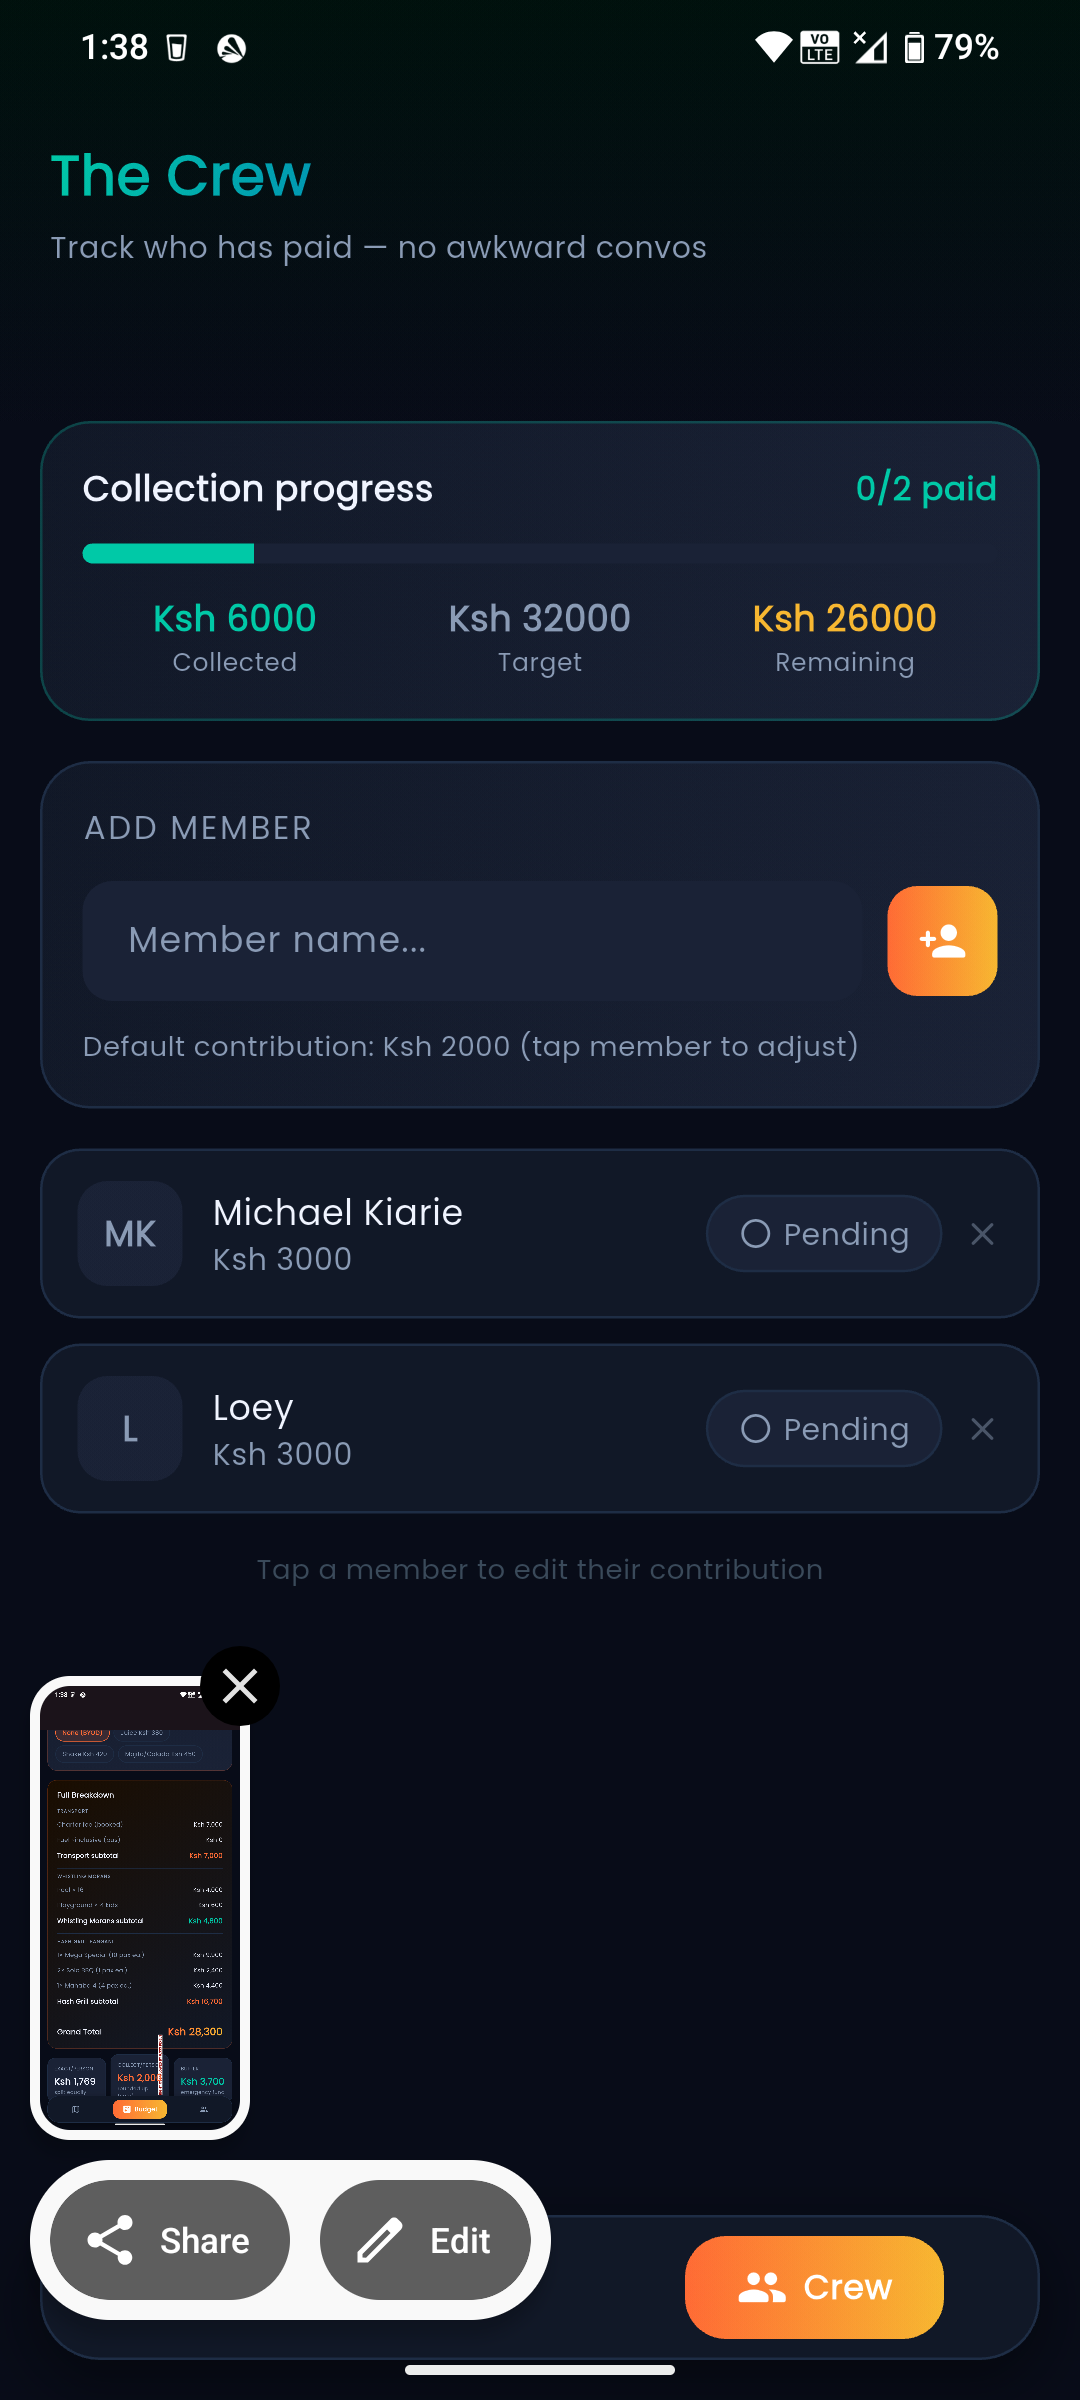
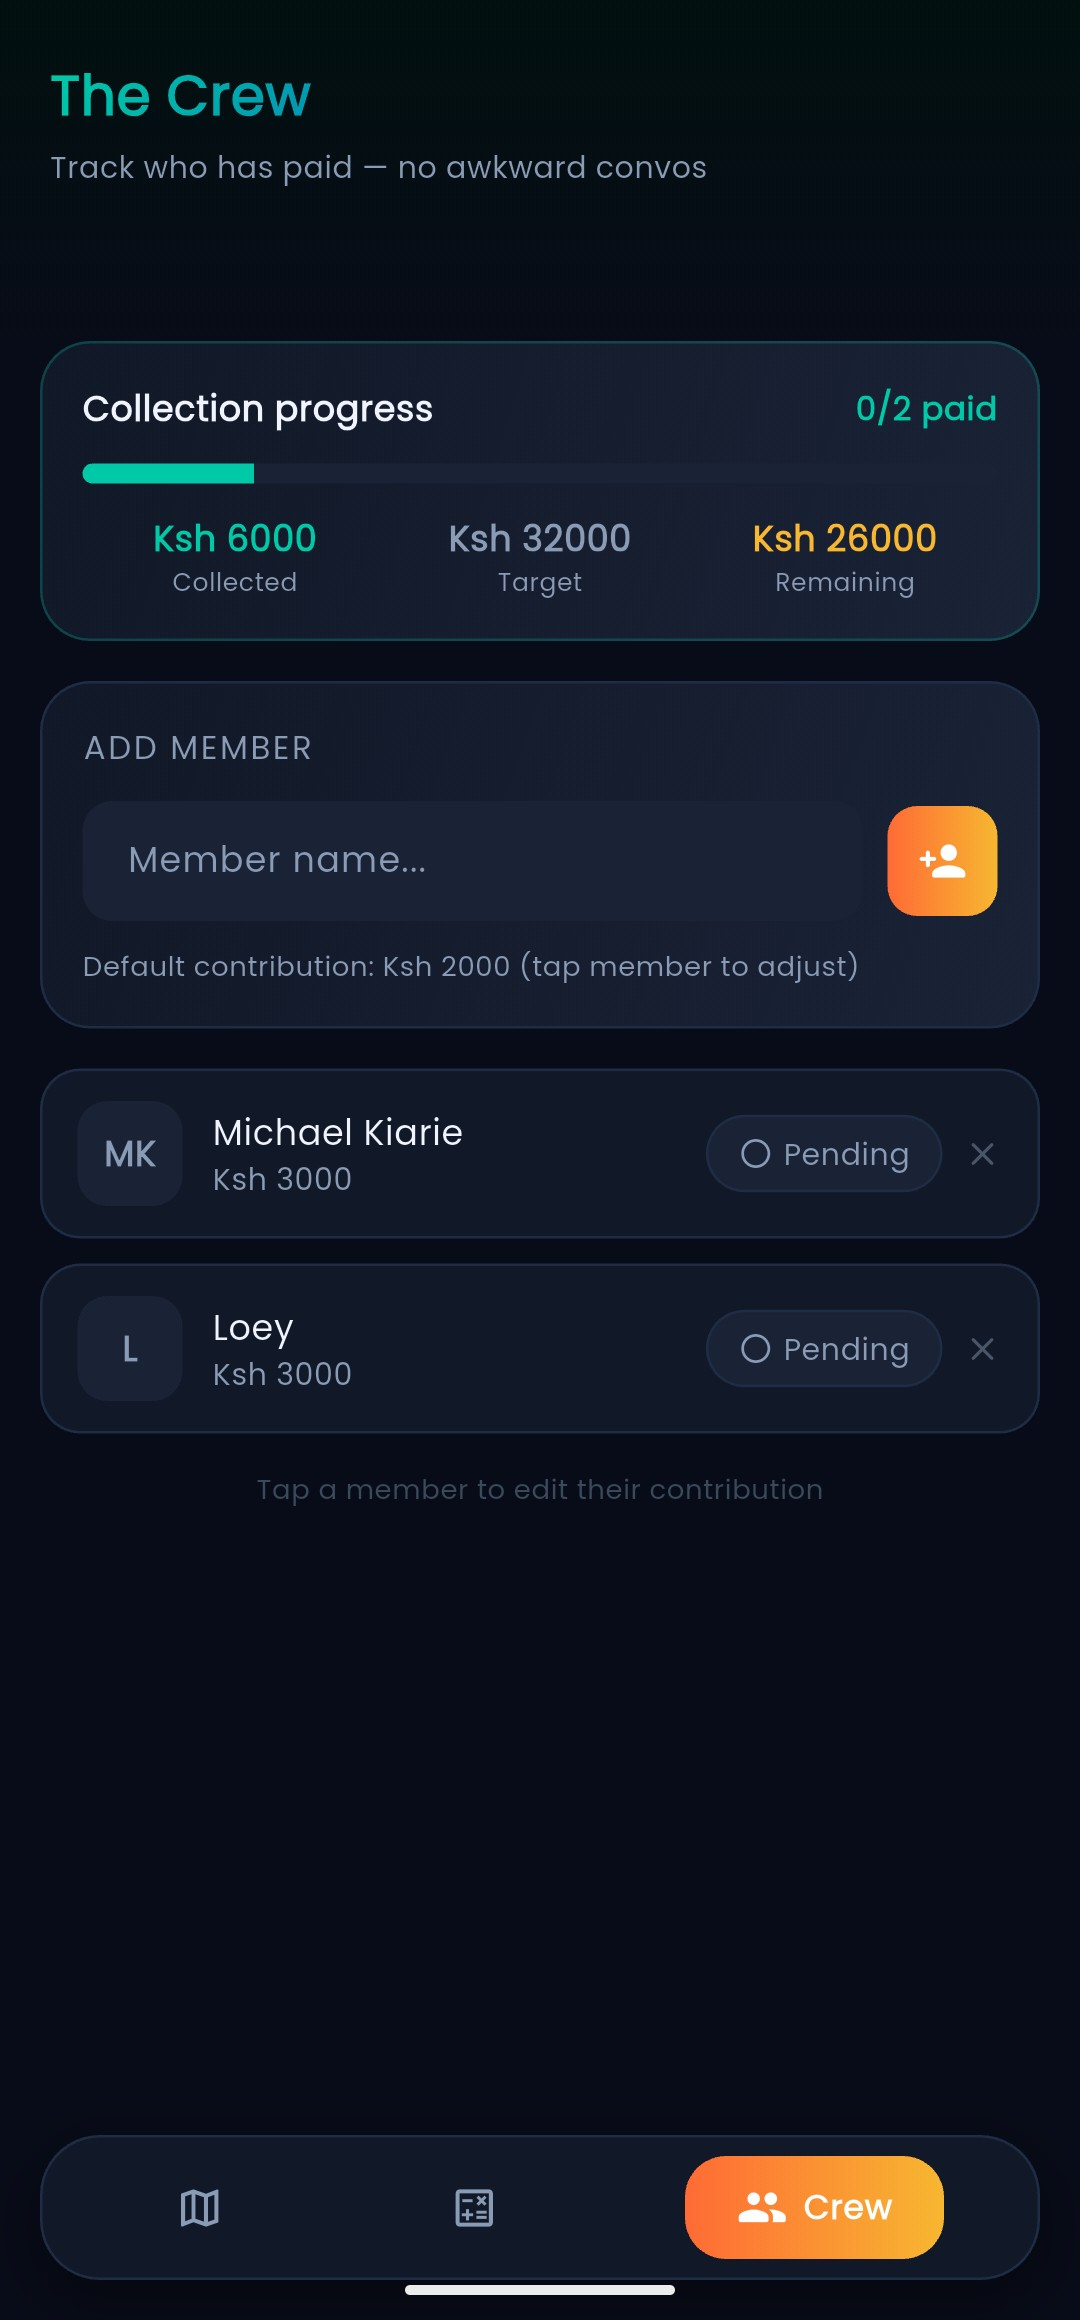
add Canaaneast Group site and mini builds section; update app details and links

diff --git a/src/data/apps.js b/src/data/apps.js
@@ -8,6 +8,8 @@
  * NOTE: the copy, links and captions here are a starting point — adjust them
  * as each build ships.
  */
+import { socials } from './profile'
+
 const screenshotUrls = import.meta.glob('../assets/images/*.{png,jpg,jpeg,webp}', {
   eager: true,
   query: '?url',
@@ -28,6 +30,12 @@ function screenshot(fileName, caption) {
 
 /** Drops any screenshot whose file is missing so the layout never breaks. */
 const shots = (...entries) => entries.filter(Boolean)
+
+/** Builds a repo URL from the GitHub profile in `profile.js`, so the username lives in one place. */
+const GITHUB_PROFILE =
+  socials.find((social) => social.icon === 'github')?.url ?? 'https://github.com'
+
+const repoUrl = (repo) => `${GITHUB_PROFILE.replace(/\/$/, '')}/${repo}`
 
 export const apps = [
   {
@@ -92,19 +100,53 @@ export const apps = [
     links: { demo: '/', repo: 'https://github.com/michael-hotani/my-portfolio' },
   },
   {
-    id: 'api-toolkit',
-    name: 'API Toolkit',
-    tagline: 'A small Laravel starter for JSON APIs.',
+    id: 'canaaneast-group',
+    name: 'Canaaneast Group',
+    tagline: 'Breaking boundaries — the corporate home of a multi-sector investment group.',
     description:
-      'An opinionated Laravel skeleton with consistent JSON responses, request validation, token auth and a ready-made Docker setup the boilerplate I stopped rewriting for every new service.',
-    platform: 'Backend',
-    status: 'In progress',
+      'A corporate website for Canaaneast Group, a progressive company with diverse interests across multiple sectors. The site presents their investment portfolio and sector expertise, and carries a brand promise built on world-class benchmarks and top-notch quality.',
+    platform: 'Web',
+    status: 'Live',
     year: '2025',
-    tags: ['Laravel', 'PHP', 'Docker', 'REST'],
-    icon: 'terminal',
+    tags: ['Web', 'Corporate site', 'Responsive', 'SEO'],
+    icon: 'layers',
     screenshots: [],
-    image: '/images/apps/api-toolkit.png',
-    links: { demo: null, repo: null },
+    image: '/images/apps/canaangroupco.png',
+    links: { demo: 'https://canaangroupco.com/', repo: null },
+  },
+]
+
+/**
+ * Weekend-sized frontend builds — the small challenges I use to keep the
+ * fundamentals sharp.
+ *
+ * NOTE: these repositories are private on GitHub. Make them public, or set
+ * `repo: null`, so visitors are not sent to a 404.
+ */
+export const miniBuilds = [
+  {
+    id: 'advice-generator',
+    name: 'Advice Generator',
+    blurb: 'Fetches a random piece of advice from an API and handles the loading and error states.',
+    date: 'Sep 2023',
+    tags: ['JavaScript', 'REST API', 'CSS'],
+    repo: repoUrl('advice-generator'),
+  },
+  {
+    id: 'calculator',
+    name: 'Calculator',
+    blurb: 'A calculator with chained operations, keyboard input and a switchable colour theme.',
+    date: 'Aug 2023',
+    tags: ['JavaScript', 'CSS Grid'],
+    repo: repoUrl('calculator'),
+  },
+  {
+    id: 'age-calculator-app',
+    name: 'Age Calculator',
+    blurb: 'Validates a date of birth, then counts the exact years, months and days from it.',
+    date: 'Aug 2023',
+    tags: ['JavaScript', 'Form validation'],
+    repo: repoUrl('age-calculator-app'),
   },
 ]
 

diff --git a/src/__tests__/data.spec.js b/src/__tests__/data.spec.js
@@ -4,7 +4,7 @@ import { profile, navLinks, socials, stats } from '../data/profile'
 import { skillGroups, techMarquee } from '../data/skills'
 import { experience, education } from '../data/experience'
 import { projects, projectCategories, featuredProjects } from '../data/projects'
-import { apps, showcasedApps, otherApps } from '../data/apps'
+import { apps, showcasedApps, otherApps, miniBuilds } from '../data/apps'
 
 describe('profile data', () => {
   it('exposes the core contact details', () => {
@@ -107,5 +107,43 @@ describe('apps data', () => {
   it('splits apps into showcased and card variants without losing any', () => {
     expect(showcasedApps.length + otherApps.length).toBe(apps.length)
     expect(otherApps.every((app) => !app.screenshots?.length)).toBe(true)
+  })
+
+  it('links the Canaaneast Group site', () => {
+    const canaan = apps.find((app) => app.id === 'canaaneast-group')
+
+    expect(canaan).toBeDefined()
+    expect(canaan.links.demo).toBe('https://canaangroupco.com/')
+    expect(canaan.status).toBe('Live')
+  })
+
+  it('no longer lists the retired API toolkit', () => {
+    expect(apps.some((app) => app.id === 'api-toolkit')).toBe(false)
+  })
+})
+
+describe('mini builds', () => {
+  it('lists the small frontend challenges with unique ids', () => {
+    const ids = miniBuilds.map((build) => build.id)
+
+    expect(miniBuilds.length).toBeGreaterThanOrEqual(3)
+    expect(new Set(ids).size).toBe(ids.length)
+  })
+
+  it('gives every build a blurb, tags and a date', () => {
+    miniBuilds.forEach((build) => {
+      expect(build.name).toBeTruthy()
+      expect(build.blurb).toBeTruthy()
+      expect(build.tags.length).toBeGreaterThan(0)
+      expect(build.date).toBeTruthy()
+    })
+  })
+
+  it('points each repo link at a GitHub url', () => {
+    miniBuilds
+      .filter((build) => build.repo)
+      .forEach((build) => {
+        expect(build.repo).toMatch(/^https:\/\/github\.com\/[^/]+\/.+/)
+      })
   })
 })

diff --git a/e2e/vue.spec.js b/e2e/vue.spec.js
@@ -90,8 +90,35 @@ test.describe('portfolio', () => {
     await expect(shots.first()).toBeVisible()
 
     // The screenshot must actually decode, not just be present in the DOM.
-    const loaded = await shots.first().evaluate((img) => img.complete && img.naturalWidth > 0)
-    expect(loaded).toBe(true)
+    // Images are lazy-loaded, so poll until the browser has finished with it.
+    await expect
+      .poll(() => shots.first().evaluate((img) => img.complete && img.naturalWidth > 0))
+      .toBe(true)
+  })
+
+  test('defaults to dark even when the OS prefers light', async ({ page }) => {
+    await page.emulateMedia({ colorScheme: 'light' })
+    await page.reload()
+
+    await expect(page.locator('html')).toHaveClass(/dark/)
+  })
+
+  test('lists the small frontend builds', async ({ page }) => {
+    await page.locator('#apps').scrollIntoViewIfNeeded()
+
+    const heading = page.getByRole('heading', { name: 'Small builds' })
+    await expect(heading).toBeVisible()
+
+    for (const name of ['Advice Generator', 'Calculator', 'Age Calculator']) {
+      await expect(page.getByRole('heading', { name, exact: true })).toBeVisible()
+    }
+  })
+
+  test('links out to the Canaaneast Group site', async ({ page }) => {
+    await page.locator('#apps').scrollIntoViewIfNeeded()
+
+    await expect(page.getByRole('heading', { name: 'Canaaneast Group' })).toBeVisible()
+    await expect(page.locator('#apps a[href="https://canaangroupco.com/"]')).toHaveCount(1)
   })
 
   test('shows a 404 page for unknown routes', async ({ page }) => {

diff --git a/src/__tests__/ui.store.spec.js b/src/__tests__/ui.store.spec.js
@@ -1,4 +1,4 @@
-import { describe, it, expect, beforeEach } from 'vitest'
+import { describe, it, expect, beforeEach, afterEach, vi } from 'vitest'
 import { createPinia, setActivePinia } from 'pinia'
 
 import { useUiStore } from '../stores/ui'
@@ -8,6 +8,40 @@ describe('ui store', () => {
     setActivePinia(createPinia())
     localStorage.clear()
     document.documentElement.classList.remove('dark')
+  })
+
+  afterEach(() => {
+    vi.restoreAllMocks()
+  })
+
+  it('defaults to dark', () => {
+    const ui = useUiStore()
+
+    expect(ui.theme).toBe('dark')
+    expect(ui.isDark).toBe(true)
+    expect(document.documentElement.classList.contains('dark')).toBe(true)
+  })
+
+  it('stays dark even when the system asks for a light scheme', () => {
+    // Enforced dark: the OS preference must not override the default.
+    vi.spyOn(window, 'matchMedia').mockImplementation((query) => ({
+      matches: query.includes('prefers-color-scheme: light'),
+      media: query,
+      onchange: null,
+      addListener: () => {},
+      removeListener: () => {},
+      addEventListener: () => {},
+      removeEventListener: () => {},
+      dispatchEvent: () => false,
+    }))
+
+    expect(useUiStore().theme).toBe('dark')
+  })
+
+  it('still honours an explicit light choice from a previous visit', () => {
+    localStorage.setItem('portfolio:theme', 'light')
+
+    expect(useUiStore().theme).toBe('light')
   })
 
   it('toggles between light and dark', () => {

diff --git a/src/components/sections/AppsSection.vue b/src/components/sections/AppsSection.vue
@@ -1,7 +1,8 @@
 <script setup>
-import { otherApps, showcasedApps } from '@/data/apps'
+import { miniBuilds, otherApps, showcasedApps } from '@/data/apps'
 import AppShowcase from '@/components/ui/AppShowcase.vue'
 import AppShowcaseCard from '@/components/ui/AppShowcaseCard.vue'
+import MiniBuildCard from '@/components/ui/MiniBuildCard.vue'
 import SectionHeading from '@/components/ui/SectionHeading.vue'
 </script>
 
@@ -30,6 +31,20 @@ import SectionHeading from '@/components/ui/SectionHeading.vue'
 
       <div v-if="otherApps.length" class="mt-20 grid gap-6 md:grid-cols-2 xl:grid-cols-3">
         <AppShowcaseCard v-for="app in otherApps" :key="app.id" :app="app" />
+      </div>
+
+      <!-- Weekend-sized frontend challenges -->
+      <div v-if="miniBuilds.length" class="mt-20">
+        <div data-reveal class="reveal flex flex-wrap items-baseline gap-x-4 gap-y-2">
+          <h3 class="font-display text-xl font-semibold tracking-tight">Small builds</h3>
+          <p class="text-sm text-muted">
+            Weekend frontend challenges I use to keep the fundamentals sharp.
+          </p>
+        </div>
+
+        <div class="mt-6 grid gap-4 sm:grid-cols-2 xl:grid-cols-3">
+          <MiniBuildCard v-for="build in miniBuilds" :key="build.id" :build="build" />
+        </div>
       </div>
     </div>
   </section>

diff --git a/src/components/ui/MiniBuildCard.vue b/src/components/ui/MiniBuildCard.vue
@@ -1,0 +1,38 @@
+<script setup>
+import AppIcon from './AppIcon.vue'
+
+defineProps({
+  build: { type: Object, required: true },
+})
+</script>
+
+<template>
+  <component
+    :is="build.repo ? 'a' : 'div'"
+    :href="build.repo ?? undefined"
+    :target="build.repo ? '_blank' : undefined"
+    :rel="build.repo ? 'noopener noreferrer' : undefined"
+    data-reveal
+    class="reveal group surface-card flex flex-col gap-3 rounded-2xl p-5 transition-all duration-300"
+    :class="build.repo ? 'hover:-translate-y-1 hover:border-brand-400/50' : ''"
+  >
+    <div class="flex items-start justify-between gap-3">
+      <h4 class="font-display text-base font-semibold tracking-tight">{{ build.name }}</h4>
+      <AppIcon
+        v-if="build.repo"
+        name="arrowUpRight"
+        :size="16"
+        class="mt-0.5 text-muted transition-colors group-hover:text-brand-400"
+      />
+    </div>
+
+    <p class="text-sm leading-relaxed text-muted">{{ build.blurb }}</p>
+
+    <div
+      class="mt-auto flex flex-wrap items-center gap-x-3 gap-y-1 pt-1 font-mono text-[11px] text-muted"
+    >
+      <span v-for="tag in build.tags" :key="tag">{{ tag }}</span>
+      <span class="ml-auto">{{ build.date }}</span>
+    </div>
+  </component>
+</template>

diff --git a/src/stores/ui.js b/src/stores/ui.js
@@ -1,11 +1,16 @@
 import { computed, ref, watch } from 'vue'
 import { defineStore } from 'pinia'
-import { isBrowser, prefersLightScheme } from '@/composables/useReducedMotion'
+import { isBrowser } from '@/composables/useReducedMotion'
 
 const STORAGE_KEY = 'portfolio:theme'
+const DEFAULT_THEME = 'dark'
 
+/**
+ * Dark is the default on purpose — the system colour scheme is deliberately
+ * ignored. Light mode only applies when the visitor picks it themselves.
+ */
 function readStoredTheme() {
-  if (!isBrowser) return 'dark'
+  if (!isBrowser) return DEFAULT_THEME
 
   try {
     const stored = window.localStorage.getItem(STORAGE_KEY)
@@ -14,7 +19,7 @@ function readStoredTheme() {
     // Storage can be blocked (private mode, strict settings) — fall through.
   }
 
-  return prefersLightScheme() ? 'light' : 'dark'
+  return DEFAULT_THEME
 }
 
 function applyTheme(theme) {

diff --git a/index.html b/index.html
@@ -19,11 +19,11 @@
     <link href="https://fonts.googleapis.com/css2?family=Inter:wght@400;500;600;700&family=Space+Grotesk:wght@500;600;700&family=JetBrains+Mono:wght@400;500&display=swap" rel="stylesheet">
     <script>
       // Applied before paint so the saved theme never flashes.
+      // Dark is the default; the system scheme is intentionally ignored.
       (function () {
         try {
           var stored = localStorage.getItem('portfolio:theme')
-          var prefersLight = window.matchMedia('(prefers-color-scheme: light)').matches
-          var theme = stored || (prefersLight ? 'light' : 'dark')
+          var theme = stored === 'light' ? 'light' : 'dark'
           document.documentElement.classList.toggle('dark', theme === 'dark')
           document.documentElement.dataset.theme = theme
         } catch (e) {

diff --git a/src/composables/useReducedMotion.js b/src/composables/useReducedMotion.js
@@ -1,18 +1,9 @@
 const isBrowser = typeof window !== 'undefined'
 
-/**
- * True when the visitor asked the OS to reduce motion.
- * Also returns `false` in environments without `matchMedia` (SSR, jsdom).
- */
+/** True when the visitor asked the OS to reduce motion. */
 export function prefersReducedMotion() {
   if (!isBrowser || typeof window.matchMedia !== 'function') return false
   return window.matchMedia('(prefers-reduced-motion: reduce)').matches
-}
-
-/** True when the visitor prefers a light colour scheme. */
-export function prefersLightScheme() {
-  if (!isBrowser || typeof window.matchMedia !== 'function') return false
-  return window.matchMedia('(prefers-color-scheme: light)').matches
 }
 
 export { isBrowser }

diff --git a/playwright.config.js b/playwright.config.js
@@ -23,8 +23,8 @@ export default defineConfig({
   },
   /* Fail the build on CI if you accidentally left test.only in the source code. */
   forbidOnly: !!process.env.CI,
-  /* Retry on CI only */
-  retries: process.env.CI ? 2 : 0,
+  /* Retry once locally to absorb transient browser/CPU hiccups. */
+  retries: process.env.CI ? 2 : 1,
   /* Opt out of parallel tests on CI. */
   workers: process.env.CI ? 1 : undefined,
   /* Reporter to use. See https://playwright.dev/docs/test-reporters */
